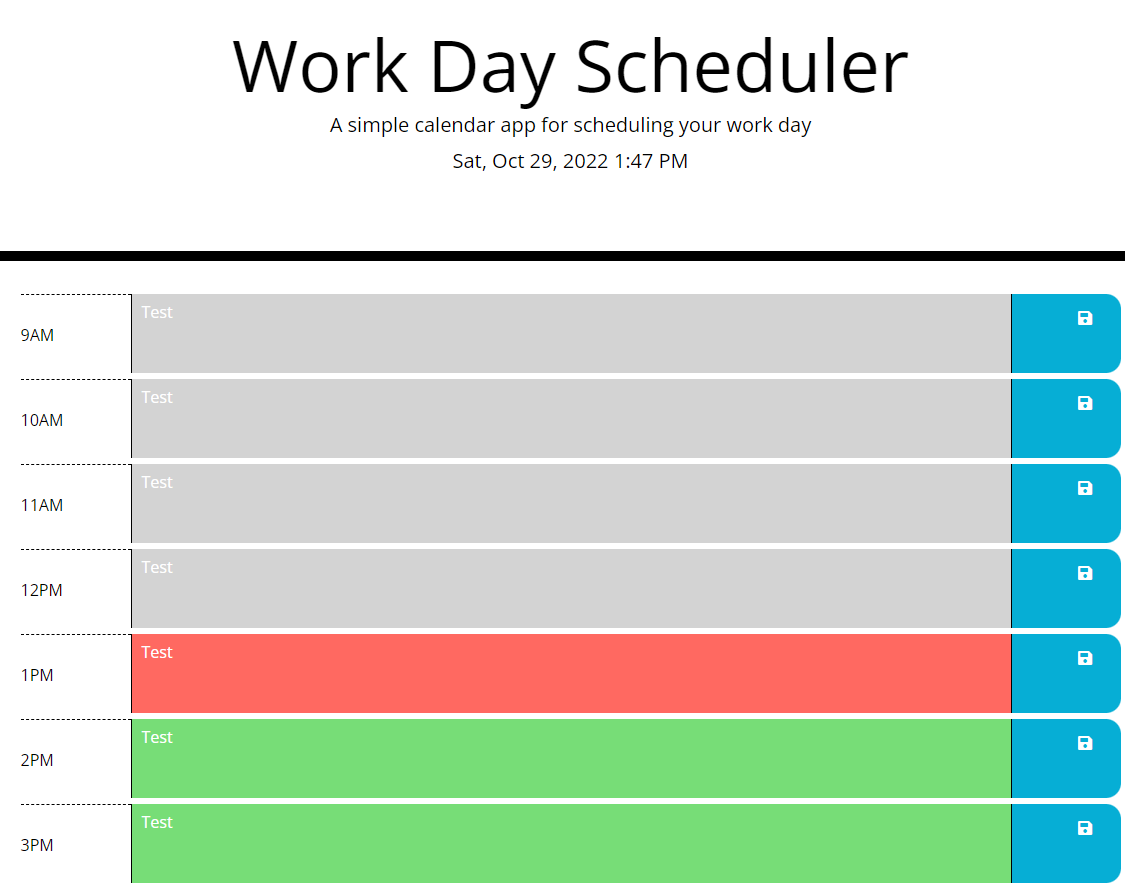
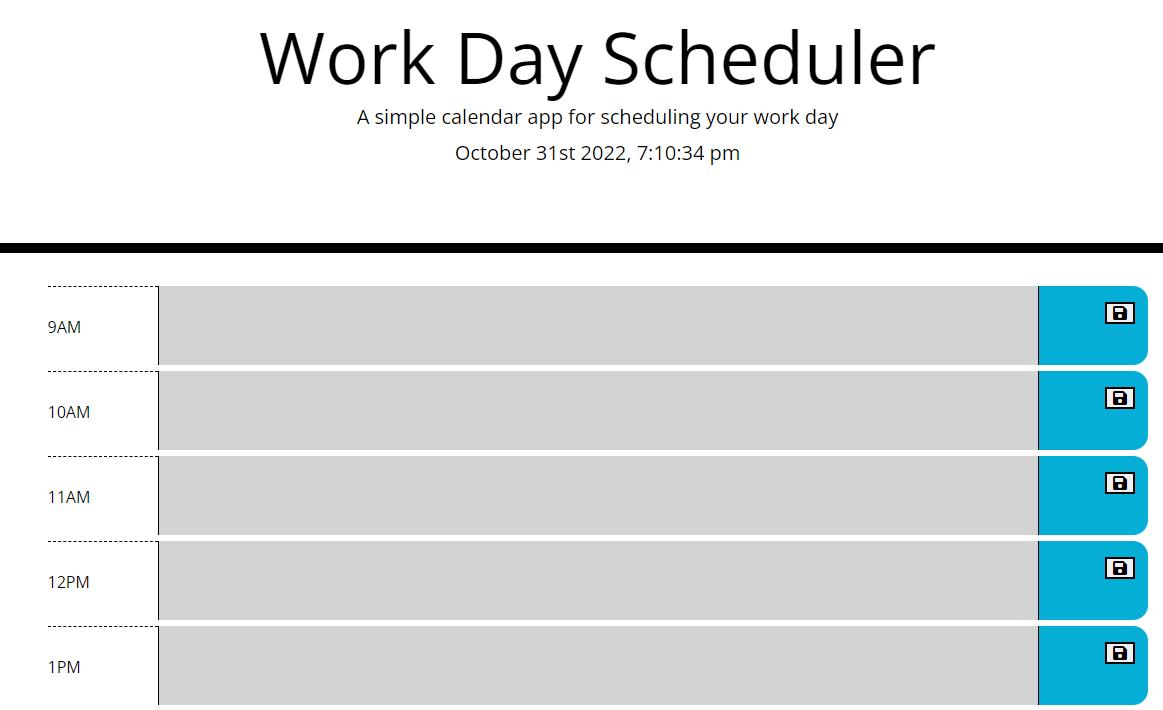
change README preview image; add setInterval to date/time on top

diff --git a/assets/js/script.js b/assets/js/script.js
@@ -1,5 +1,8 @@
 // update day at top of page
-$("#currentDay").text(moment().format("llll"));
+setInterval(
+  () => $("#currentDay").text(moment().format("MMMM Do YYYY, h:mm:ss a")),
+  1000
+);
 
 const hours = [
   "9AM",
@@ -49,9 +52,12 @@ hours.forEach((hour, i) => {
         `;
 });
 
+// add event listeners for each save button
 for (let i = 0; i < rowHourArray.length; i++) {
-  document.querySelector(`#saveBtnHour${i+9}`).addEventListener("click", () => {
-    console.log("this button works");
-    saveActivity(`${i+9}`);
-  });
+  document
+    .querySelector(`#saveBtnHour${i + 9}`)
+    .addEventListener("click", () => {
+      console.log("this button works");
+      saveActivity(`${i + 9}`);
+    });
 }
